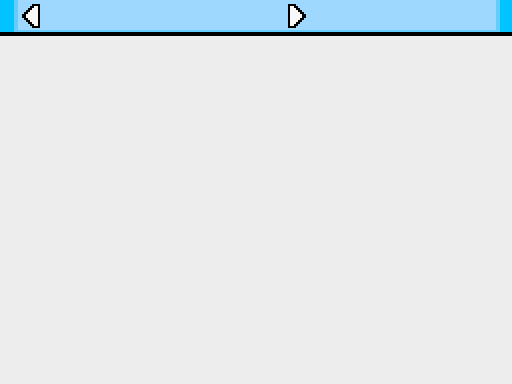
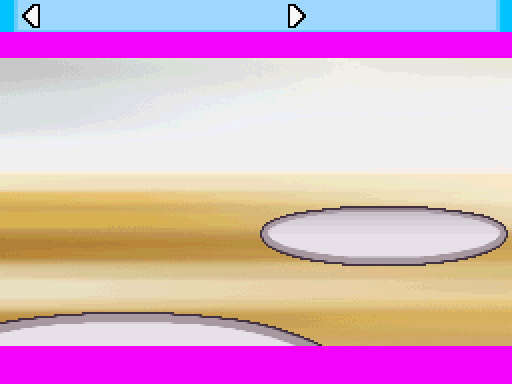
Misc. movedex improvements

diff --git a/Plugins/Tectonic MoveDex/Entry/MoveDex_Entry_Scene.rb b/Plugins/Tectonic MoveDex/Entry/MoveDex_Entry_Scene.rb
@@ -38,6 +38,9 @@ class MoveDex_Entry_Scene
         @sprites["pokemon_0"].z = 21
         @sprites["pokemon_1"] = Sprite.new(@viewport)
         @sprites["pokemon_1"].z = 16
+        @sprites["animation_black_bars"] = IconSprite.new(0, 32, @viewport)
+        @sprites["animation_black_bars"].setBitmap("Graphics/Pictures/Movedex/bg_move_animation_black_bars")
+        @sprites["animation_black_bars"].z = 999_999
 
         drawPage
 
@@ -54,9 +57,19 @@ class MoveDex_Entry_Scene
         generateOtherLearnablesSpeciesList
         setCurrentPageSpeciesList
 
-        @defaultMoveUser = @moveData.signature_of || @otherLearnables.sample || :PIKACHU
-        @defaultMoveTarget = :PIKACHU
+        @defaultMoveUser = @moveData.signature_of || getRandomNonLegendaryLearner
+        @defaultMoveTarget = getRandomNonLegendaryLearner
         @targetingData = GameData::Target.get(@moveData.target)
+    end
+
+    def getRandomNonLegendaryLearner
+        return :PIKACHU if @otherLearnables.empty?
+        speciesData = nil
+        loop do
+            speciesData = GameData::Species.get(@otherLearnables.sample)
+            break if speciesData.form == 0
+        end
+        return speciesData.id
     end
 
     def generateLevelUpLearnablesSpeciesList
@@ -115,11 +128,12 @@ class MoveDex_Entry_Scene
         drawFormattedTextEx(overlay, 212, 2, Graphics.width, "<outln2>[#{@page}/#{pageTitles.length}]</outln2>", base, shadow, 18)
 
         # Draw move name on top right	
-        moveName = getFormattedMoveName(@moveData.name,160)
-        drawFormattedTextEx(overlay, 320, 4, Graphics.width, "<outln2>#{moveName}</outln2>", base, shadow, 18)
+        moveName = getFormattedMoveName(@moveData.name,148)
+        drawFormattedTextEx(overlay, 316, 4, Graphics.width, "<outln2>#{moveName}</outln2>", base, shadow, 18)
 
         @sprites["pokemon_0"].visible = @page == 5
         @sprites["pokemon_1"].visible = @page == 5
+        @sprites["animation_black_bars"].visible = @page == 5
         
         case @page
         when 1
@@ -330,7 +344,6 @@ class MoveDex_Entry_Scene
 
     def drawMoveAnimationPage
         bg_path = "Graphics/Pictures/Movedex/bg_move_animation"
-        bg_path += "_dark" if darkMode?
         @sprites["background"].setBitmap(_INTL(bg_path))
 
         overlay = @sprites["overlay"].bitmap
@@ -345,17 +358,25 @@ class MoveDex_Entry_Scene
         @user = GameData::Species.back_sprite_bitmap(@defaultMoveUser).deanimate
         @target = GameData::Species.front_sprite_bitmap(@defaultMoveTarget).deanimate
 
+        battlerSpriteYOffset = 48
+
         @sprites["pokemon_0"].bitmap = @user
         @sprites["pokemon_1"].bitmap = @target
-        animationOffset = 32
+        userSpriteMetrics = GameData::SpeciesMetrics.get_species_form(@defaultMoveUser,0)
+        userSpriteX = PokeBattle_SceneConstants::FOCUSUSER_X
+        userSpriteY = PokeBattle_SceneConstants::FOCUSUSER_Y + battlerSpriteYOffset
         pbSpriteSetAnimFrame(@sprites["pokemon_0"],
-            pbCreateCel(PokeBattle_SceneConstants::FOCUSUSER_X,
-                        PokeBattle_SceneConstants::FOCUSUSER_Y + animationOffset,-1,2),
+            pbCreateCel(userSpriteX,userSpriteY,-1,2),
             @sprites["pokemon_0"],@sprites["pokemon_1"])
+        userSpriteMetrics.apply_metrics_to_sprite(@sprites["pokemon_0"],0)
+
+        targetSpeciesMetrics = GameData::SpeciesMetrics.get_species_form(@defaultMoveTarget,0)
+        targetSpriteX = PokeBattle_SceneConstants::FOCUSTARGET_X
+        targetSpriteY = PokeBattle_SceneConstants::FOCUSTARGET_Y + battlerSpriteYOffset
         pbSpriteSetAnimFrame(@sprites["pokemon_1"],
-            pbCreateCel(PokeBattle_SceneConstants::FOCUSTARGET_X,
-                        PokeBattle_SceneConstants::FOCUSTARGET_Y + animationOffset,-2,1),
+            pbCreateCel(targetSpriteX,targetSpriteY,-2,1),
             @sprites["pokemon_0"],@sprites["pokemon_1"])
+        targetSpeciesMetrics.apply_metrics_to_sprite(@sprites["pokemon_1"],1)
     end
 
     def playAnimation(oppmove = false,speedMult = 1.0)

diff --git a/Plugins/Tectonic Battle/Move Codes/Move_Codes_RandomMove.rb b/Plugins/Tectonic Battle/Move Codes/Move_Codes_RandomMove.rb
@@ -166,10 +166,12 @@ class PokeBattle_Move_UseRandomNonSignatureMove < PokeBattle_Move
             next unless move_data.can_be_forced?
             next if @moveBlacklist.include?(move_data.function_code)
             next if move_data.empoweredMove?
-            moveObject = @battle.getBattleMoveInstanceFromID(move_id)
-            next if moveObject.is_a?(PokeBattle_ProtectMove)
-            next if moveObject.is_a?(PokeBattle_HelpingMove)
-            next if moveObject.callsAnotherMove?
+            if battle
+                moveObject = battle.getBattleMoveInstanceFromID(move_id)
+                next if moveObject.is_a?(PokeBattle_ProtectMove)
+                next if moveObject.is_a?(PokeBattle_HelpingMove)
+                next if moveObject.callsAnotherMove?
+            end
             @metronomeMoves.push(move_data.id)
         end
     end
@@ -209,10 +211,14 @@ class PokeBattle_Move_UseChoiceOf3RandomNonSignatureStatusMoves < PokeBattle_Mov
             next if move_data.is_signature?
             next unless move_data.learnable?
             next unless move_data.can_be_forced?
-            moveObject = @battle.getBattleMoveInstanceFromID(move_id)
-            next if moveObject.is_a?(PokeBattle_ProtectMove)
-            next if moveObject.is_a?(PokeBattle_HelpingMove)
-            next if moveObject.callsAnotherMove?
+
+            if battle
+                moveObject = battle.getBattleMoveInstanceFromID(move_id)
+                next if moveObject.is_a?(PokeBattle_ProtectMove)
+                next if moveObject.is_a?(PokeBattle_HelpingMove)
+                next if moveObject.callsAnotherMove?
+            end
+
             @discoverableMoves.push(move_data.id)
         end
     end

diff --git a/Plugins/Tectonic MoveDex/Main/MoveDex_Scene.rb b/Plugins/Tectonic MoveDex/Main/MoveDex_Scene.rb
@@ -114,22 +114,23 @@ class MoveDex_Scene
         end
         pbDrawTextPositions(overlay, textpos)
 
+        #drawFormattedTextEx(overlay, 164, 2, 450, _INTL("{1} Moves",@moveList.length), base, shadow)
+
 		# render the moves lists
 		displayIndex = 0
 		listIndex = -1
         @selected_move = nil
         if @moveList.empty?
-            drawFormattedTextEx(overlay, MOVE_LIST_X_LEFT + 60, 90, 450, _INTL("None"), base, shadow)
+            drawFormattedTextEx(overlay, MOVE_LIST_X_LEFT, 90, 450, _INTL("None"), base, shadow)
 		else
             @moveList.each_with_index do |dex_item, _index|
                 listIndex += 1
                 next if listIndex < @scroll
                 maxWidth = displayIndex == 0 ? 200 : 212
                 moveName = getFormattedMoveName(dex_item[:data], 200)
-                offsetX = 0
                 @selected_move = dex_item[:move] if listIndex == @scroll
                 moveDrawY = MOVE_LIST_SUMMARY_MOVE_NAMES_Y_INIT + 32 * displayIndex
-                drawFormattedTextEx(overlay, MOVE_LIST_X_LEFT + offsetX, moveDrawY, 450, moveName, base, shadow)
+                drawFormattedTextEx(overlay, MOVE_LIST_X_LEFT, moveDrawY, 450, moveName, base, shadow)
                 if listIndex == @scroll
                     @sprites["selectionarrow"].y = moveDrawY - 4
                     @sprites["selectionarrow"].visible = true

diff --git a/Plugins/Tectonic Battle/Move Codes/Items/Move_Codes_ItemUse.rb b/Plugins/Tectonic Battle/Move Codes/Items/Move_Codes_ItemUse.rb
@@ -362,6 +362,18 @@ class PokeBattle_Move_NaturalGift < PokeBattle_Move
     def resetMoveUsageState
         @chosenItem = nil
     end
+
+    def getDetailsForMoveDex(detailsList = [])
+        @typeArray.each_pair do |typeID, berryList|
+            lineText = GameData::Type.get(typeID).name
+            lineText += ": "
+            berryList.each_with_index do |berryID,index|
+                lineText += GameData::Item.get(berryID).name
+                lineText += ", " unless index == berryList.length - 1
+            end
+            detailsList << lineText
+        end
+    end
 end
 
 #===============================================================================
